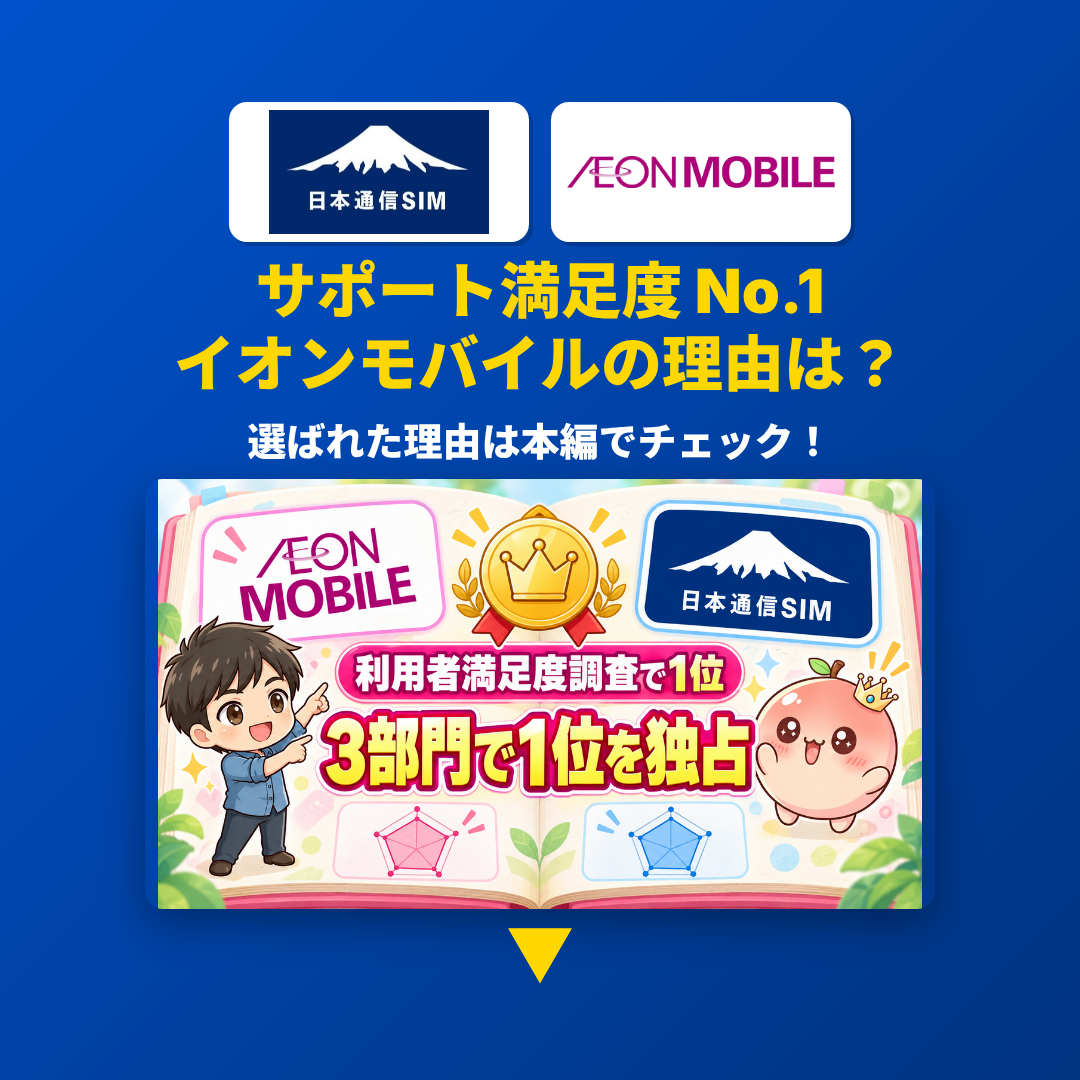
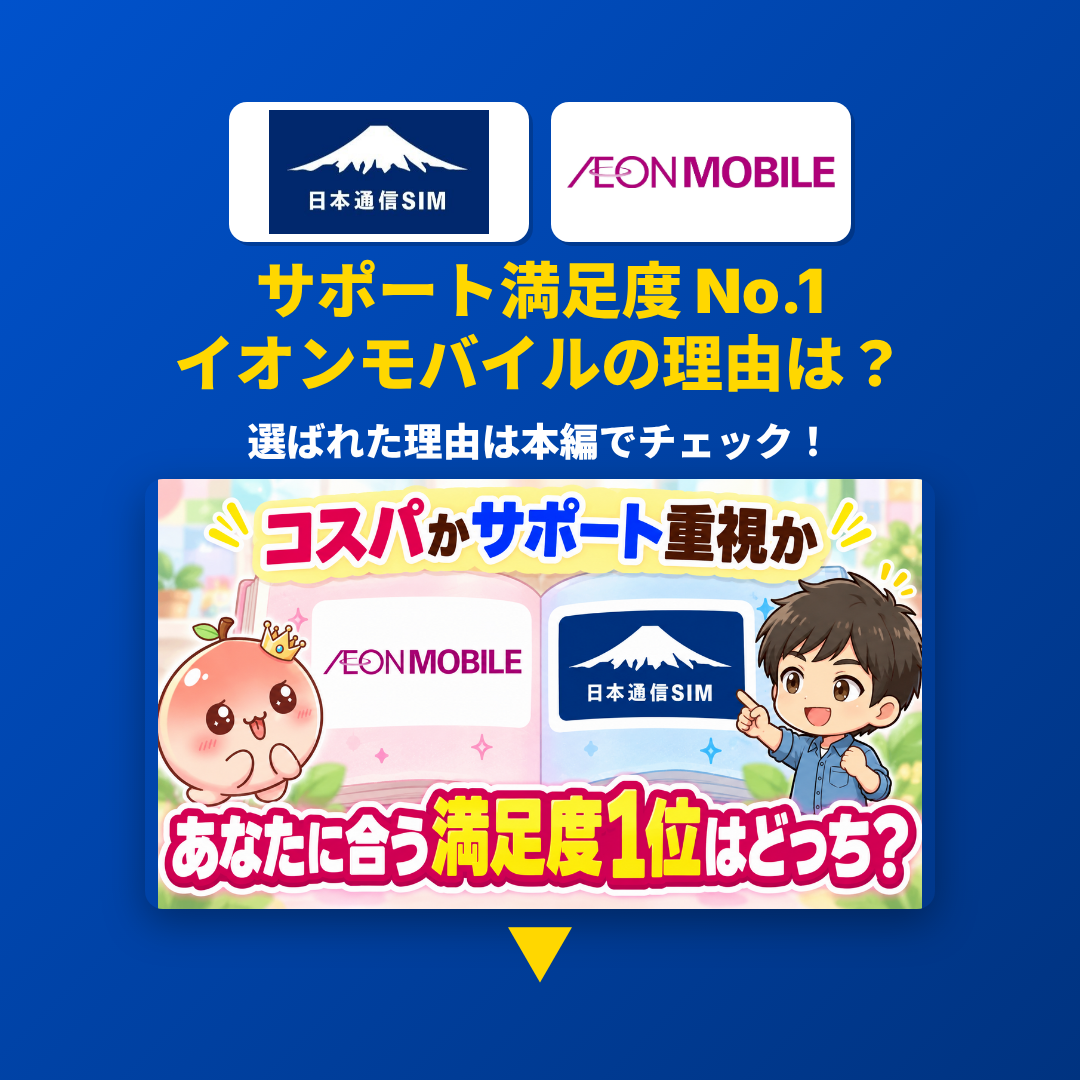
スライド内のサムネ差し替え

Changed region(s): [[0.1222, 0.4278, 0.8556, 0.8556]]

diff --git a/slides-short.html b/slides-short.html
@@ -780,7 +780,7 @@
         </div>
         <div class="cta-sub">選ばれた理由は本編でチェック！</div>
         <img
-          src="public/images/thumbnails/46_格安SIM総合満足度No.1は日本通信SIM！サポート満足度No.1はイオンモバイル_サムネ1.png"
+          src="public/images/thumbnails/46_格安SIM総合満足度No.1は日本通信SIM！サポート満足度No.1はイオンモバイル_サムネ2.png"
           class="cta-banner-img"
           alt="本編動画のサムネイル"
         />
